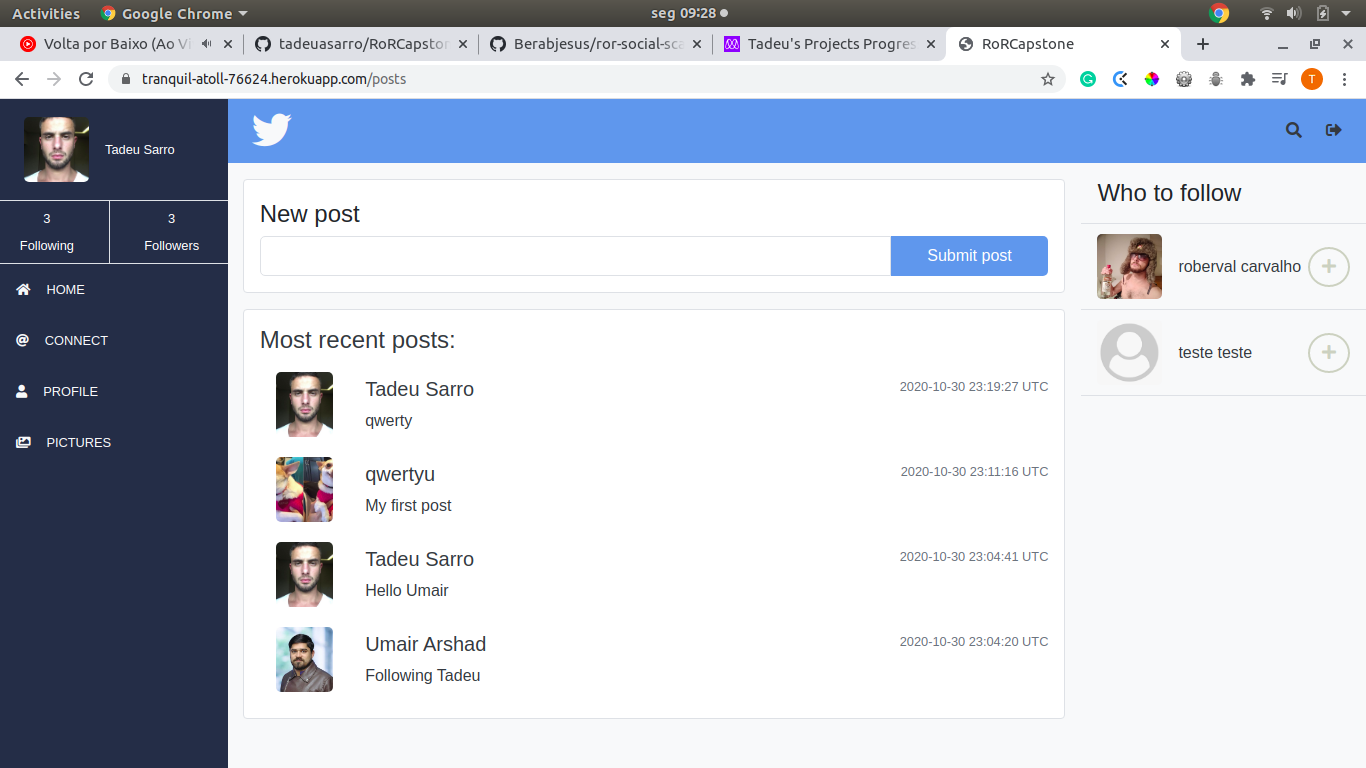
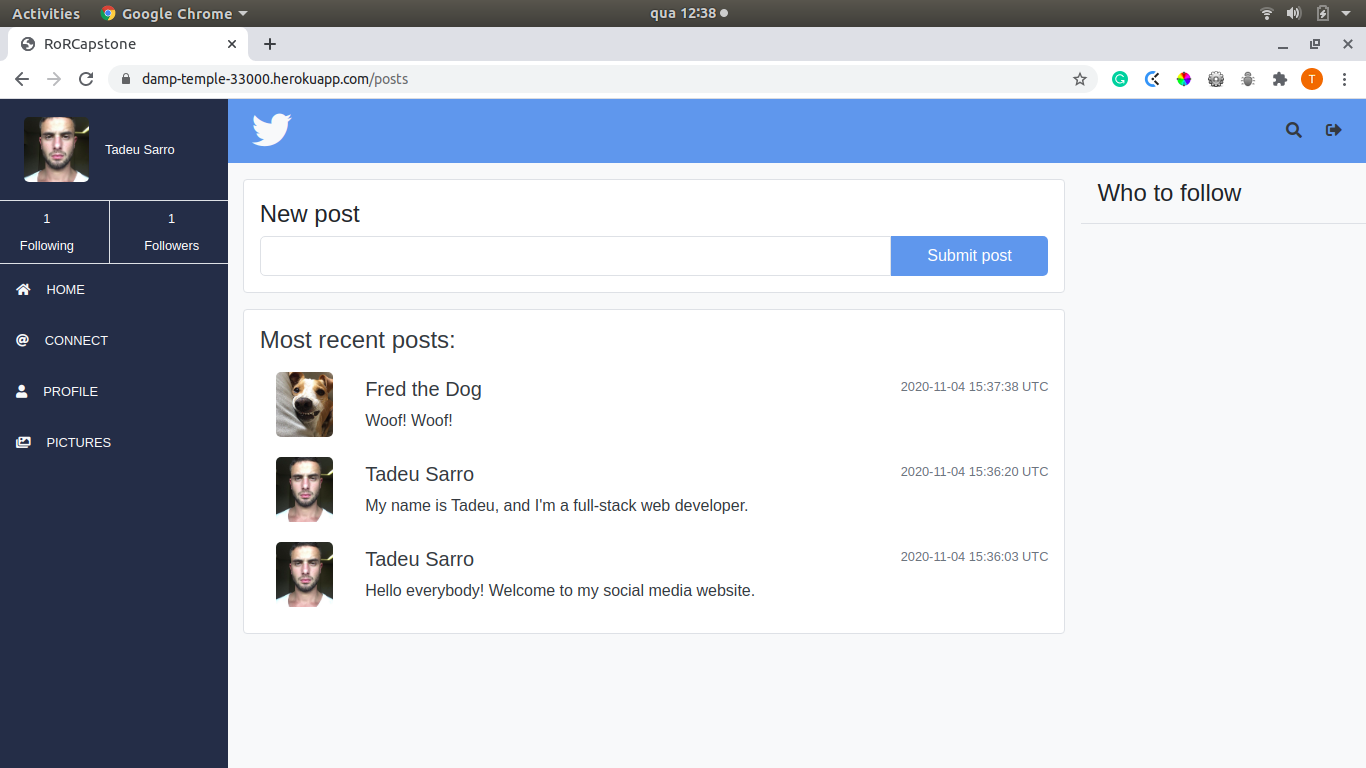
Update screenshot and readme

diff --git a/README.md b/README.md
@@ -16,7 +16,7 @@
 ![screenshot](app/assets/images/screenshot.png)
 
 #### Livedemo
-- [Heroku](https://obscure-bastion-64795.herokuapp.com/)
+- [Heroku](https://damp-temple-33000.herokuapp.com/)
 
 ## Built With
 
